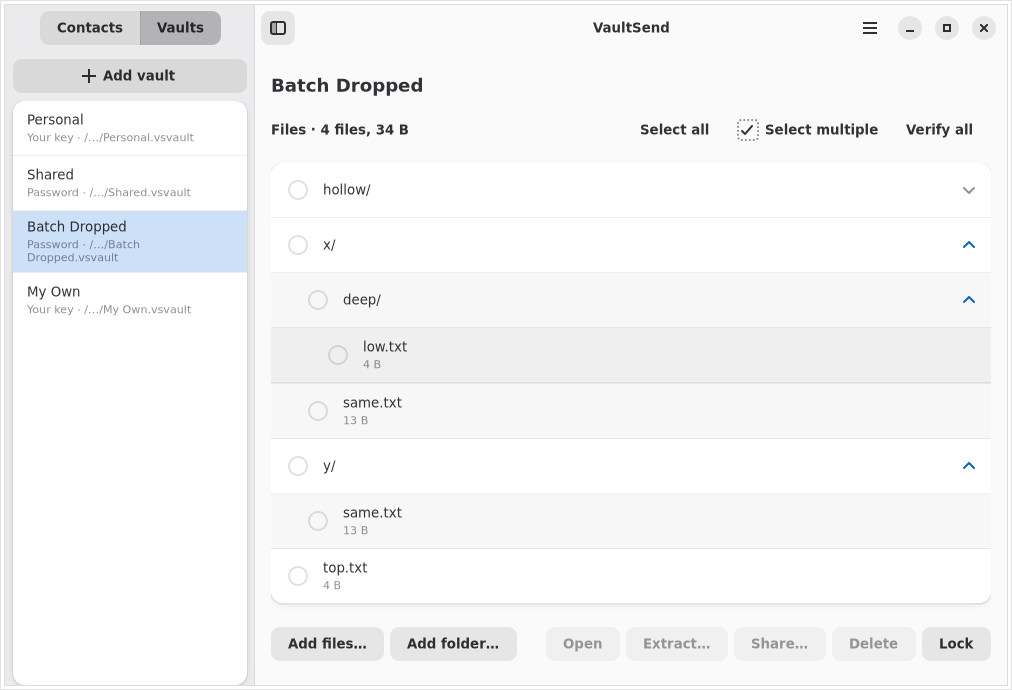
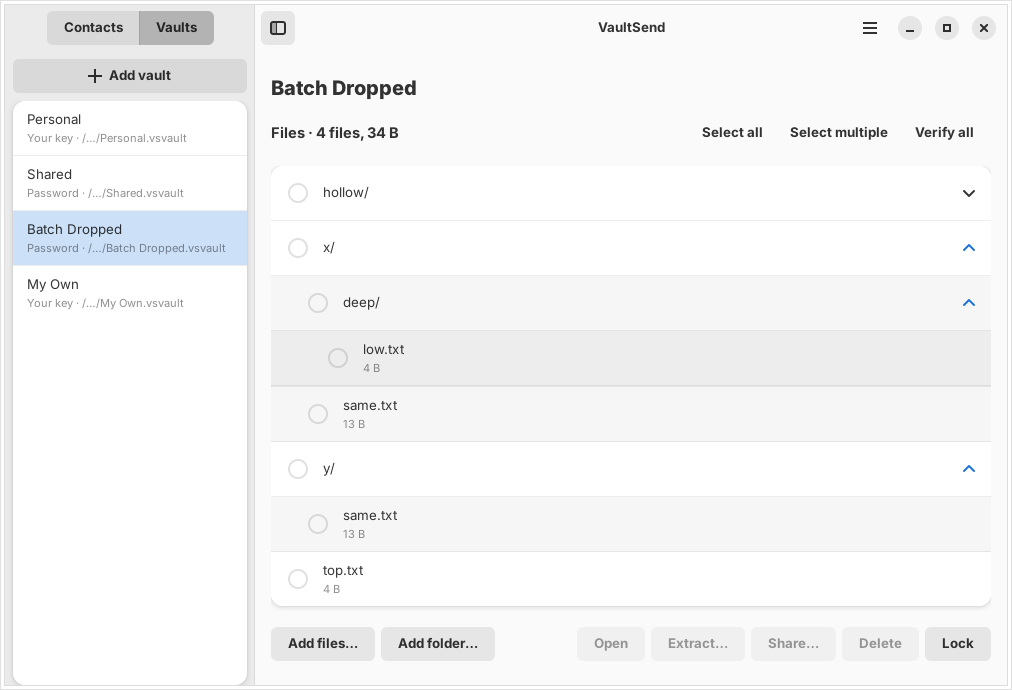
frontend: drop the tick box from Select multiple; light one button at a time
Select multiple is now just its label. Select all becomes a toggle that is lit
while every row is ticked, and Select multiple stays on underneath but doesn't
show it then, so only one of the two is ever highlighted.

Claude-Session: https://claude.ai/code/session_01LSohfjLmu5NbZpV4L8eR61

diff --git a/frontend/app.py b/frontend/app.py
@@ -805,6 +805,7 @@ class Window(Adw.ApplicationWindow):
         self.selected_entry = None  # what the actions act on, selecting one at a time
         self.entry_checks = {}  # every row's radio button or tick box, by path
         self.syncing_checks = False  # ticking one box is ticking others too; see _on_entry_ticked
+        self.syncing_select_all = False  # Select all's state set from _update_selection
         self.expanded = set()  # folders left open, kept across re-listing
         self.opened = []  # decrypted copies given to other apps; see vault_open()
         clear_stale_copies()
@@ -852,13 +853,10 @@ class Window(Adw.ApplicationWindow):
         }
         /* Both groups of buttons on one line, at the window's default size. */
         .vaultsend-actions > flowboxchild { padding: 0; }
-        /* The box on the switch between selecting one row and selecting several. */
-        .vaultsend-select-box {
-            min-width: 18px; min-height: 18px;
-            border: 2px dotted alpha(currentColor, 0.6); border-radius: 4px;
-        }
-        .vaultsend-select-mode:checked .vaultsend-select-box {
-            background-color: #3584e4; border-color: #3584e4; color: white;
+        /* One of Select all and Select multiple is lit at a time. With everything ticked,
+           Select all is, so Select multiple, still on underneath, doesn't show it. */
+        .vaultsend-select-mode.vaultsend-outranked:checked:not(:hover):not(:active) {
+            background-color: transparent;
         }
         /* Above the row of buttons at the bottom, not over them, where it would catch their clicks. */
         toast { margin-bottom: 72px; }
@@ -1884,17 +1882,12 @@ class Window(Adw.ApplicationWindow):
         files_row = Gtk.Box(orientation=Gtk.Orientation.HORIZONTAL)
         self.files_heading = Gtk.Label(label="Files", xalign=0, hexpand=True, ellipsize=3)  # 3: at the end
         self.files_heading.add_css_class("heading")
-        self.select_all_btn = Gtk.Button(label="Select all", tooltip_text="Select every file and folder in this vault")
+        # A toggle, lit while everything is selected; see _update_selection.
+        self.select_all_btn = Gtk.ToggleButton(label="Select all", tooltip_text="Select every file and folder in this vault")
         self.select_all_btn.add_css_class("flat")
-        self.select_all_btn.connect("clicked", self._on_select_all)
-        select_box = Gtk.Box(halign=Gtk.Align.CENTER, valign=Gtk.Align.CENTER)
-        select_box.add_css_class("vaultsend-select-box")
-        select_box.append(Gtk.Image.new_from_icon_name("object-select-symbolic"))
-        select_content = Gtk.Box(spacing=6)
-        select_content.append(select_box)
-        select_content.append(Gtk.Label(label="Select multiple"))
+        self.select_all_btn.connect("toggled", self._on_select_all)
         self.select_mode_btn = Gtk.ToggleButton(tooltip_text="Select several at once")
-        self.select_mode_btn.set_child(select_content)
+        self.select_mode_btn.set_child(Gtk.Label(label="Select multiple"))
         self.select_mode_btn.add_css_class("flat")
         self.select_mode_btn.add_css_class("vaultsend-select-mode")
         self.select_mode_btn.connect("toggled", self._on_select_mode_toggled)
@@ -2057,11 +2050,22 @@ class Window(Adw.ApplicationWindow):
         self.files_heading.set_label(summary)
         for btn in self.selection_buttons:
             btn.set_sensitive(bool(chosen))
-        self.select_all_btn.set_label("Select none" if chosen == [ROOT_ENTRY] else "Select all")
+        everything = chosen == [ROOT_ENTRY]
+        self.select_all_btn.set_label("Select none" if everything else "Select all")
         self.select_all_btn.set_sensitive(bool(self.vault_entries))
+        # Only one of the two is lit: Select all while everything is selected, else Select
+        # multiple while it's on.
+        self.syncing_select_all = True
+        self.select_all_btn.set_active(everything)
+        self.syncing_select_all = False
+        (self.select_mode_btn.add_css_class if everything else self.select_mode_btn.remove_css_class)(
+            "vaultsend-outranked"
+        )
 
     def _on_select_all(self, _btn):
         """Selecting everything takes the tick boxes, so this turns them on if they aren't."""
+        if self.syncing_select_all:
+            return
         everything = self._selection() != [ROOT_ENTRY]
         self.select_mode_btn.set_active(True)
         self.syncing_checks = True

diff --git a/tests/vault_gui_driver.py b/tests/vault_gui_driver.py
@@ -496,6 +496,7 @@ def clicking_through_the_new_features():
     yield SETTLE
     btn = win.select_mode_btn
     check(not btn.get_active() and "vaultsend-select-mode" in btn.get_css_classes(), "the selector starts off")
+    check(not any(isinstance(w, Gtk.Image) for w in walk(btn)), "Select multiple has no tick icon")
     shot("16-selector-off")
     select("top.txt")
     real_click(btn)
@@ -522,8 +523,10 @@ def clicking_through_the_new_features():
     check(all(radio_of(p).get_active() for p in win.vault_entries), "Select all ticks everything")
     check(ticked() == [app.ROOT_ENTRY] and "all selected" in win.files_heading.get_label(), "and means all of it")
     check(win.select_all_btn.get_label() == "Select none", "and the button offers the way back")
+    check(win.select_all_btn.get_active() and "vaultsend-outranked" in btn.get_css_classes(), "only Select all is lit now")
     tick("top.txt", False)
     check(ticked() != [app.ROOT_ENTRY] and "top.txt" not in ticked() and win.select_all_btn.get_label() == "Select all", "unticking one row isn't all any more")
+    check(not win.select_all_btn.get_active() and "vaultsend-outranked" not in btn.get_css_classes(), "and Select multiple is lit again instead")
     tick("top.txt")
     check(ticked() == [app.ROOT_ENTRY], "and ticking every row by hand is all again")
     win.select_all_btn.emit("clicked")

diff --git a/CHANGES-VAULTS.md b/CHANGES-VAULTS.md
@@ -47,7 +47,7 @@ chose to change so secret buffers are locked in memory: `read_passphrase`, `load
 | 7 | Drop a password vault on the main page | Decrypt, then its password. It opens and joins the list. A wrong password leaves nothing behind. |
 | 8 | The same for key vaults | Unlocks if your key is the one, and otherwise says your key doesn't match, and that it was made for a different recipient or with a different key. |
 | 9 | Create with no name shouldn't close the dialog | Create stays off until the name will do, and a name with `/` also turns the field red. Answering an `Adw.AlertDialog` always closes it, so this is the only way. |
-| 10 | Select several | **Select multiple** has a dotted box that turns blue, and turns the rows into tick boxes. Open, Extract…, Share… and Delete then act on all of them. |
+| 10 | Select several | **Select multiple** lights up while it's on, and turns the rows into tick boxes. Only one of it and **Select all** is lit at a time: with every row ticked, Select all is. Open, Extract…, Share… and Delete then act on all of them. |
 
 Not asked for, in the same family as 9: Add contact's **Add** also waits for a name and an
 `age1…` key, because a slip there would otherwise throw away what was typed part way through
@@ -645,7 +645,7 @@ looked at before committing.
 | `13-key-mismatch.png` | Added: someone else's key vault, with your key not matching. |
 | `14-progress.png` | Added: a percentage on a vault operation. |
 | `15-add-folder-chooser.png` | Added: the Add folder chooser, showing only folders. |
-| `16-selector-off.png`, `17-selector-on.png` | Added: Select multiple off, with its dotted box, and on, with the box blue. |
+| `16-selector-off.png`, `17-selector-on.png` | Added: Select multiple off, and on, lit. |
 | `18-share.png`, `19-share-add-contact.png`, `20-share-with-new-contact.png` | Added: Share, adding a contact on top of it, and back with them listed. |
 | `21-delete-everything.png` | Added: Delete with everything selected, asking first. |
 | `22-remove-from-list.png` | Added: Remove from list, with the path selectable and a copy button. |
